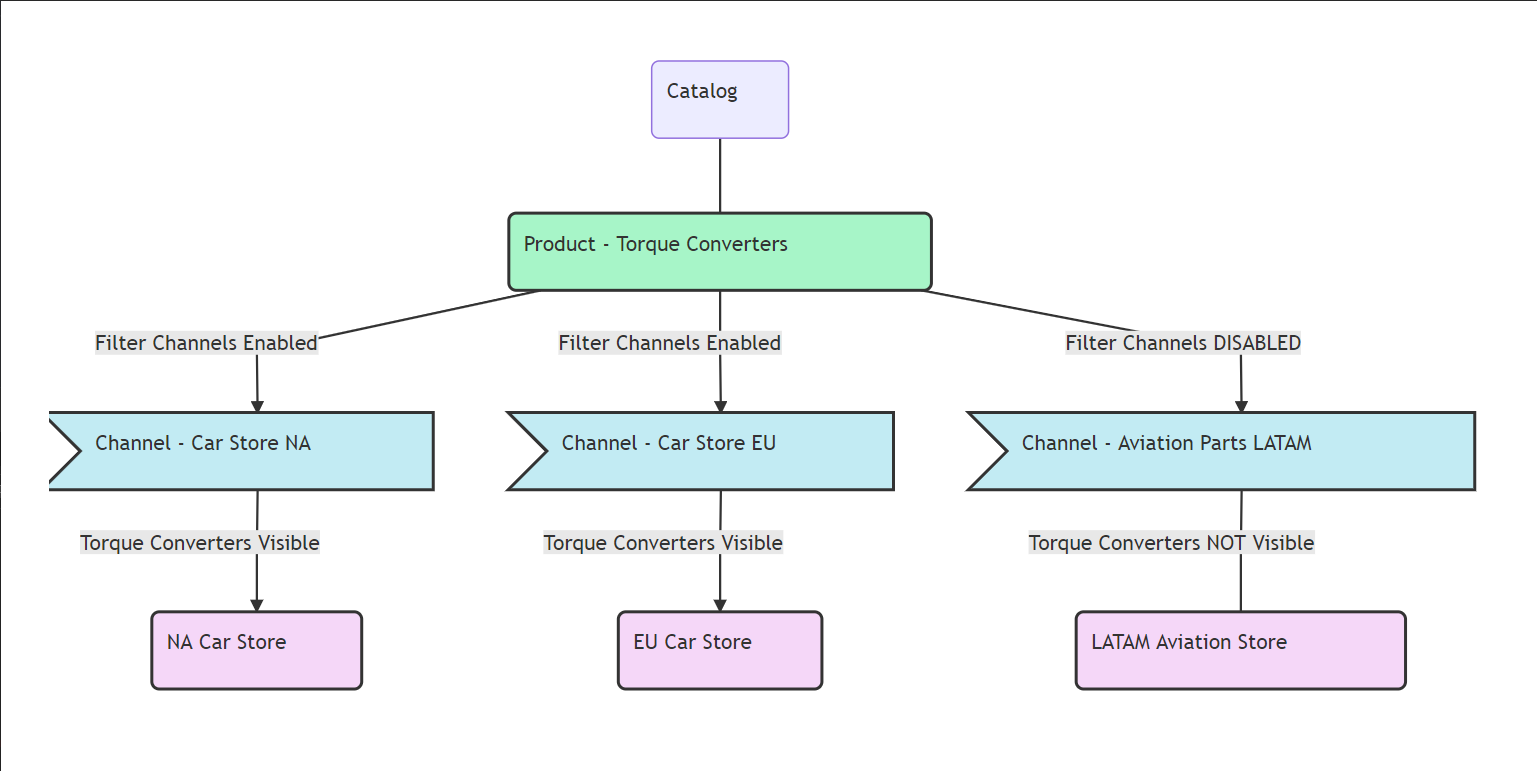
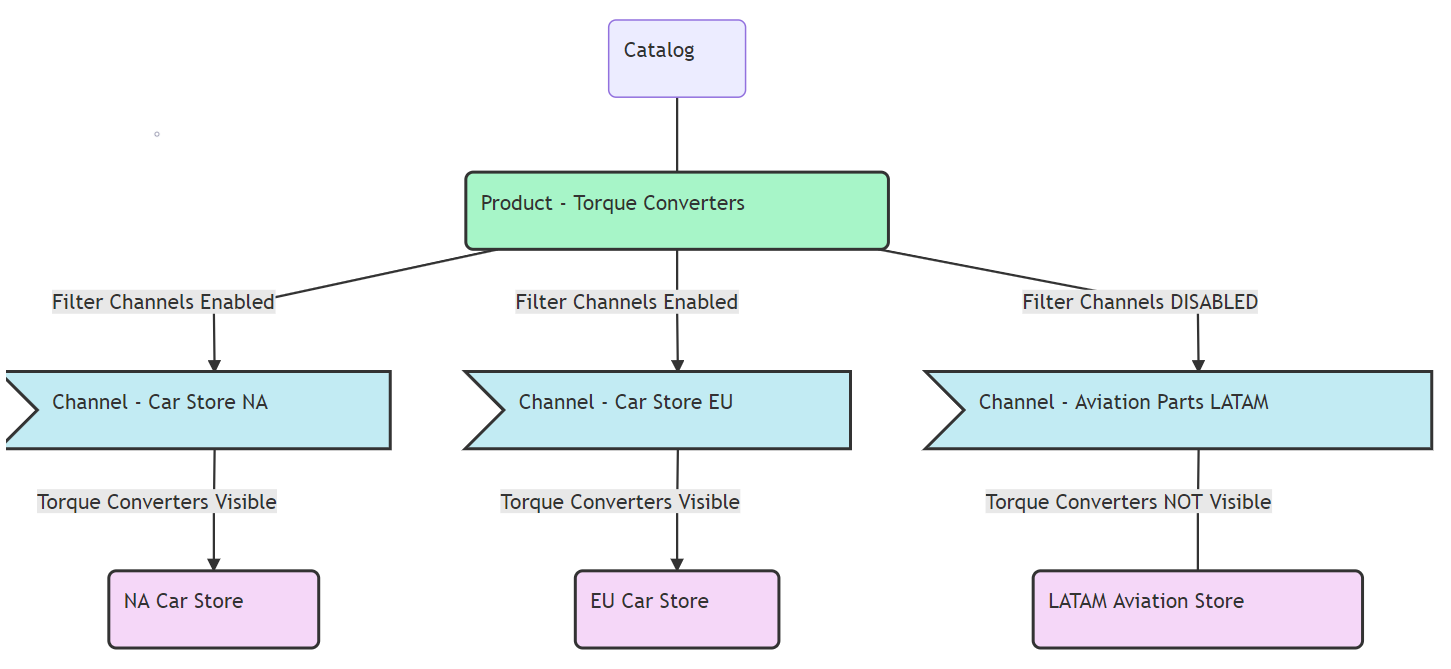
Wordsmithing, improve cropping on an image

Changed region(s): [[0.0, 0.0598, 0.9924, 0.9865], [0.031, 0.4185, 0.2481, 0.4783], [0.2481, 0.3886, 0.3101, 0.4185]]

diff --git a/docs/commerce/2.x/en/managing-a-catalog/creating-and-managing-products/channels/introduction-to-channels.md b/docs/commerce/2.x/en/managing-a-catalog/creating-and-managing-products/channels/introduction-to-channels.md
@@ -2,25 +2,19 @@
 
 Liferay Commerce provides tools designed to meet the needs of complex B2B, multi-region, and multi-market stores and simpler B2C use cases. One way that Commerce enables a wide variety of use cases is through the _Channels_ feature.
 
-In Liferay Commerce, Channels connect Catalogs and Products to any place products are sold: a Liferay Commerce based storefront, third party marketplaces, or even back office phone sales. Using Channels, store administrators are able to manage product availability, sales, and fulfillment by Site and eventually by Country, Region, or Account Group. Channels are also connected to warehouses so that an order can be fulfilled quickly from the nearest location.
+In Liferay Commerce, Channels connect Catalogs and Products to any place products are sold: a Liferay Commerce based storefront, third party marketplaces, or back office phone sales. Using Channels, users manage product availability, sales, and fulfillment by Site and eventually by Country, Region, or Account Group. Channels must be associated to warehouses in order to track product availability and and sourcing for product shipping.
 
 In a simple store example, all of a company's products are managed in one catalog and those products are distributed through a single channel: the company store site.
 
 ![Simple store structure](./introduction-to-channels/images/01.png)
 
->A simple commerce store example.
-
 In a more complex multi-channel scenario, a company may choose to customize the availability and marketing of certain products in its catalog for each of its various channels.
 
 ![Multi-channel store structure](./introduction-to-channels/images/02.png)
 
->A more complex use case using multiple Channels.
-
 Liferay Commerce Channels makes managing products, sales, and fulfillment on a single platform simple. See [Configuring Product Visibility by Site Using Channels](./configuring-product-visibility-by-site-using-channels.md) for more information.
 
 ![Configuring channels for a product](./introduction-to-channels/images/03.png)
-
->Product level configurations to scope product visibility to specific Channels.
 
 Each channel can be optimized to meet its customers' needs using various scoped features. This includes:
 

diff --git a/docs/commerce/2.x/en/managing-a-catalog/managing-inventory/introduction-to-managing-inventory.md b/docs/commerce/2.x/en/managing-a-catalog/managing-inventory/introduction-to-managing-inventory.md
@@ -1,16 +1,16 @@
 # Introduction to Managing Inventory
 
-Liferay Commerce provides the tools to manage product inventory for merchants with a single store, to organizations with multiple warehouses and stores. Store administrators can use these features to maintain quantities for sales and handle shipments to complete orders.
+Liferay Commerce provides tools for product inventory management that scale from users with a single storefront and warehouse to larger organizations with multiple sales channels and geographically distributed warehouses.
 
 There are several key features used in managing inventory: Warehouses, Availability Estimates, Low Stock Actions, and the ability to set inventory by warehouse.
 
 ## Warehouses
 
-Warehouses represent the physical locations where product inventory is managed and sourced for order fulfillment.
+Warehouses represent the physical locations where product inventory is managed and sourced for order fulfillment. Products inventory quantities are managed on a per warehouse basis.
 
 See the [Warehouse Reference Guide](./warehouse-reference-guide.md) and the [Adding a New Warehouse](./adding-a-new-warehouse.md) article for more information about how to manage warehouses.
 
-Warehouses must be associated for at least one channel. See the [Introduction to Channels](../creating-and-managing-products/channels/introduction-to-channels.md) article on how channels work.
+In order for a store to accept orders for a product, the related channel must have a warehouse associated with it. See the [Introduction to Channels](../creating-and-managing-products/channels/introduction-to-channels.md) article on how channels work.
 
 ## Availability Estimates
 

diff --git a/docs/commerce/2.x/en/managing-a-catalog/managing-inventory/adding-a-new-warehouse.md b/docs/commerce/2.x/en/managing-a-catalog/managing-inventory/adding-a-new-warehouse.md
@@ -1,8 +1,10 @@
 # Adding a New Warehouse
 
-Warehouses represent physical locations where product inventory is stored. If the [Minium Accelerator](../../starting-a-store/using-the-minium-accelerator-to-jump-start-your-b2b-store.md) was used to create the store, there are three warehouses already created. Users can add additional warehouses, especially for other geographic regions.
+Warehouses represent physical locations where product inventory is stored. If the [Minium Accelerator](../../starting-a-store/using-the-minium-accelerator-to-jump-start-your-b2b-store.md) was used to create the store, there are three warehouses already created.
 
-Before users can enter the address for a warehouse, they may need to enter and activate the applicable country and region (state or province) in the _Countries_ tab at _Control Panel_ → _Commerce_ → _Settings_.
+```note::
+   When adding a new warehouse, users may need to first enable the applicable country and region location of the warehouse (state or province). See `Adding Regions <../../store-administration/adding-regions.md>`_ for more information.
+```
   
 To add a warehouse:
 
@@ -14,7 +16,7 @@ To add a warehouse:
    * *Description:* _Warehouse description_ (e.g. North Vegas Processing Center)
 1. Switch the toggle to _Active_.
 1. Enter the warehouse address.
-1. Select any applicable channel. This allows the channel to draw inventory from this warehouse.
+1. Select a channel. Product inventory for the channel will be based on the associated warehouse.
 1. Enter the geolocation data (required):
     * *Latitude*: 36.282974
     * *Longitude*: -115.136

diff --git a/docs/commerce/2.x/en/managing-a-catalog/managing-inventory/warehouse-reference-guide.md b/docs/commerce/2.x/en/managing-a-catalog/managing-inventory/warehouse-reference-guide.md
@@ -1,8 +1,6 @@
 # Warehouse Reference Guide
 
-Warehouses represent physical locations where product inventory is managed and shipped for order fulfillment. Store administrators set inventory quantities per warehouse. Available inventory is then calculated by Liferay Commerce to determine the total available inventory for sale across warehouses. Warehouses are associated with a channel so that the store can draw its inventory from the nearest location.
-
-Liferay Commerce allows multiple warehouses across geographic locations.
+Warehouses represent physical locations where product inventory is managed and shipped for order fulfillment. Product inventory quantities can be managed per warehouse. Available inventory is then calculated by Liferay Commerce to determine the total available inventory for sale across warehouses. Channels must have a warehouse associated with it in order to source product inventory. Multiple warehouses can be created and associated with a given channel.
 
 To manage your warehouses, navigate to the _Control Panel_ → _Commerce_ → _Settings_. Click the _Warehouses_ tab.
 

diff --git a/docs/commerce/2.x/en/managing-a-catalog/managing-inventory/setting-inventory-by-warehouse.md b/docs/commerce/2.x/en/managing-a-catalog/managing-inventory/setting-inventory-by-warehouse.md
@@ -1,6 +1,6 @@
 # Setting Inventory by Warehouse
 
-Some stores may have multiple warehouses and store managers can set product quantity per location. The _Inventory_ menu is where store administrators manage the number of products available for sale in each warehouse. If the [Minium Accelerator](../../starting-a-store/using-the-minium-accelerator-to-jump-start-your-b2b-store.md) was used to create the store, there are three warehouses already created.
+Stores with multiple warehouses can manage product inventory on a per warehouse basis. The _Inventory_ menu is where users manage the number of products available for sale in each warehouse. If the [Minium Accelerator](../../starting-a-store/using-the-minium-accelerator-to-jump-start-your-b2b-store.md) was used to create the store, there are three warehouses already created.
 
 To set inventory by warehouse:
 

diff --git a/docs/commerce/2.x/en/store-administration/adding-regions.md b/docs/commerce/2.x/en/store-administration/adding-regions.md
@@ -1,6 +1,6 @@
 # Adding Regions
 
-This article describes to how to add states, provinces, or other administrative regions in Liferay Commerce. By default only the United States and Italy have all of their respective country's states and provinces listed in the _Countries_ settings.
+This article describes to how to add states, provinces, or other administrative regions in Liferay Commerce. By default the United States and Italy have all of their respective country's states and provinces listed in the _Countries_ settings.
 
 1. Navigate to the _Control Panel_ → _Commerce_ → _Settings_.
 1. Click _Countries_.
